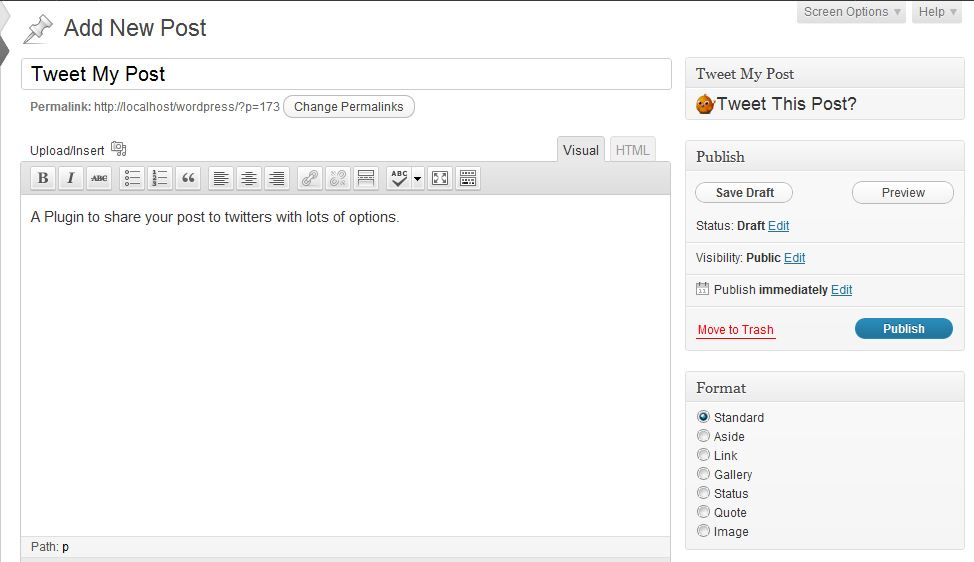
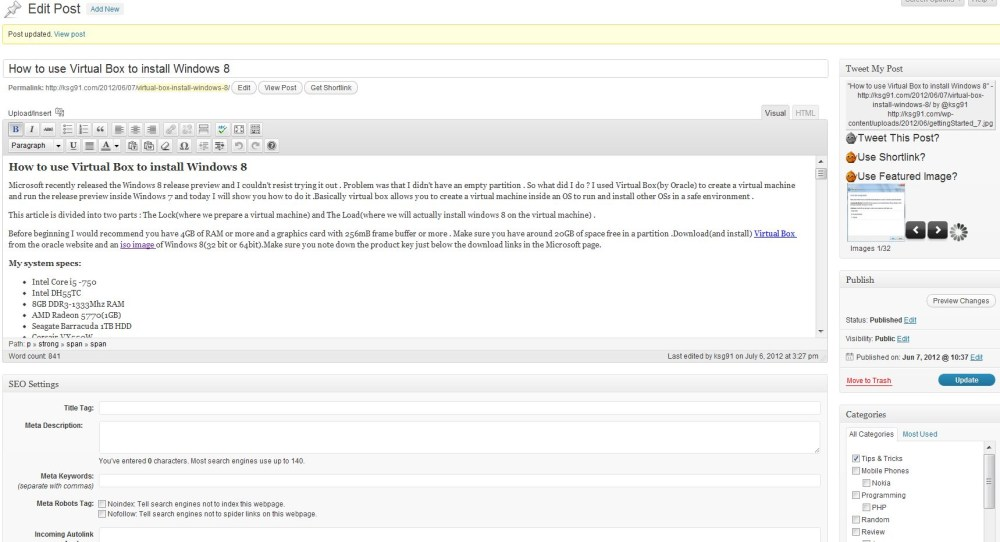
added new screenshot and updated readme

diff --git a/tmp.css b/tmp.css
@@ -19,6 +19,7 @@
   border-bottom: 2px solid #CCCCCC;
   margin-bottom: 3px;
   padding: 2px;
+  overflow: hidden;
 }
 #ftrImgSec 
 {

diff --git a/tweet-my-post.php b/tweet-my-post.php
@@ -1,9 +1,9 @@
 <?php
 /*
 Plugin Name: Tweet My Post
-Plugin URI: http://wordpress.org/extend/plugins/tweet-my-post/
-Description: A WordPress Plugin which Tweets the new posts with its title, link and Auther's twitter handle. 
-Version: 1.7.16
+Plugin URI: http://ksg91.com/tweet-my-post/
+Description: A WordPress Plugin which Tweets the new post with its title, link, Auther's twitter handle and a featured image from post.  
+Version: 1.7.17
 Author: Kishan Gor
 Author URI: http://ksg91.com
 License: GPL2
@@ -36,9 +36,8 @@ add_action('admin_enqueue_scripts', 'tmp_head_resource');
 function tmp_head_resource() {
   wp_register_style( 'tmp-style', plugin_dir_url( __FILE__ )."/tmp.css" );
   wp_enqueue_style( 'tmp-style' );
-  wp_deregister_script( 'jquery' );
-  wp_register_script( 'jquery', 'http://ajax.googleapis.com/ajax/libs/jquery/1.7.2/jquery.min.js');
-  wp_enqueue_script( 'jquery' );
+  wp_register_script( '$', 'http://code.jquery.com/jquery-latest.min.js');
+  wp_enqueue_script( '$' );
 }
 
 //adds tmp_metabox in New Post and Page page.
@@ -104,20 +103,24 @@ function tmp_metabox_html($post_id) {
         $("#tmpRefresh").click(function(e){
           $("#tmpRefresh").attr("src","'.plugin_dir_url( __FILE__ ).'loading.gif");
           getImages();
+          $("#tmp-preview").html(getTweetPreview);
           e.preventDefault();
         });
         $("#tmpNext").click(function(e){
           nextPrevImg("next");
           updateImgInfo();
+          $("#tmp-preview").html(getTweetPreview);
           e.preventDefault();
         });
         $("#tmpPrev").click(function(e){
           nextPrevImg("prev");
           updateImgInfo();
+          $("#tmp-preview").html(getTweetPreview);
           e.preventDefault();
         });
         $("#useFtrImg").change(function(e){
           $("#ftrImgSec").toggle("slow");
+          $("#tmp-preview").html(getTweetPreview);
         });
       });
       ';
@@ -128,6 +131,8 @@ function tmp_metabox_html($post_id) {
           var link="'.get_permalink($post_id).'";
           var preview=format.replace("[t]",title);
           preview=preview.replace("[l]",link);
+          if($("#useFtrImg").attr("checked")=="checked")
+            preview=preview+" "+($("#hidFld").attr("value"));
           return preview; 
         }
         </script>';
@@ -137,7 +142,7 @@ function tmp_metabox_html($post_id) {
           var preUrl=$("#post-preview").attr("href");
           $.get(preUrl, function(data) {
             var m=data.match(/https?:\/\/([a-zA-Z0-9\.\/\-\_\%\&\=])*\.(jpg|png|gif|jpeg)/gi);
-            imgs=jQuery.unique(m);
+            imgs=$.unique(m);
             count=imgs.push("'.plugin_dir_url( __FILE__ ).'bird.png");
             $("#ftrImg").attr("src",m[0]);
             $("#hidFld").attr("value",m[0]);
@@ -163,9 +168,11 @@ function tmp_metabox_html($post_id) {
               curPos--;
             $("#ftrImg").attr("src",imgs[curPos]);
           }
+          $("#hidFld").attr("value",imgs[curPos]);
         }
         function updateImgInfo()
         {
+          $("#hidFld").attr("value",imgs[curPos]);
           $("#imgInfo").html("Images "+(curPos+1)+"/"+count);
         }
         </script>';
